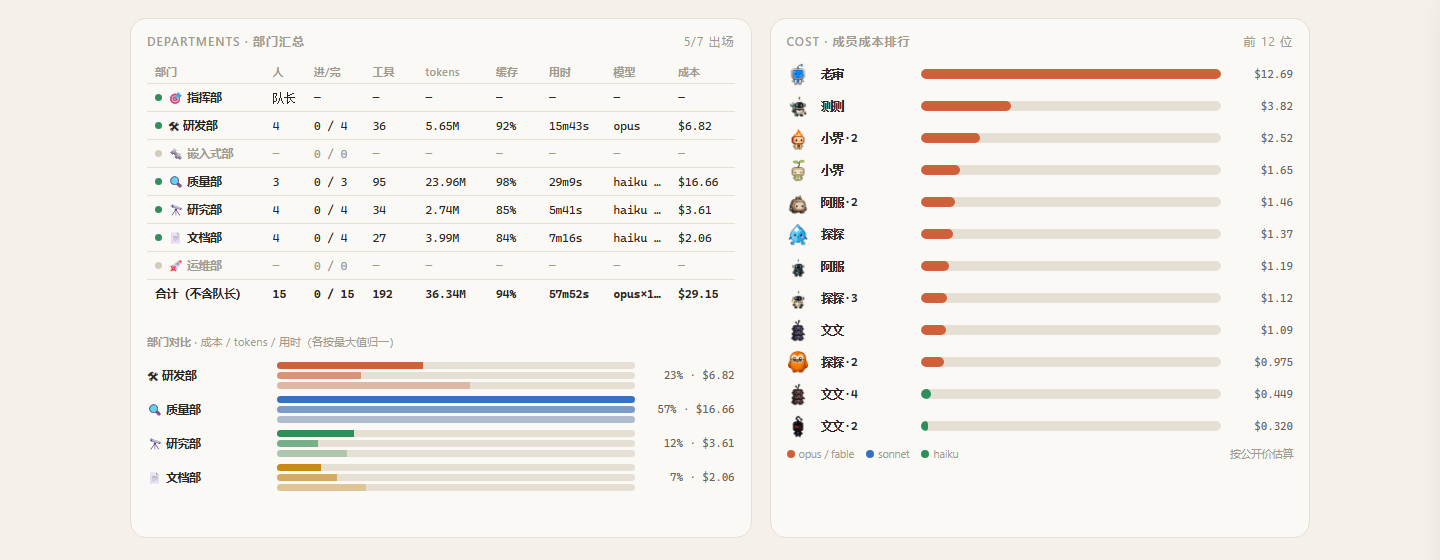
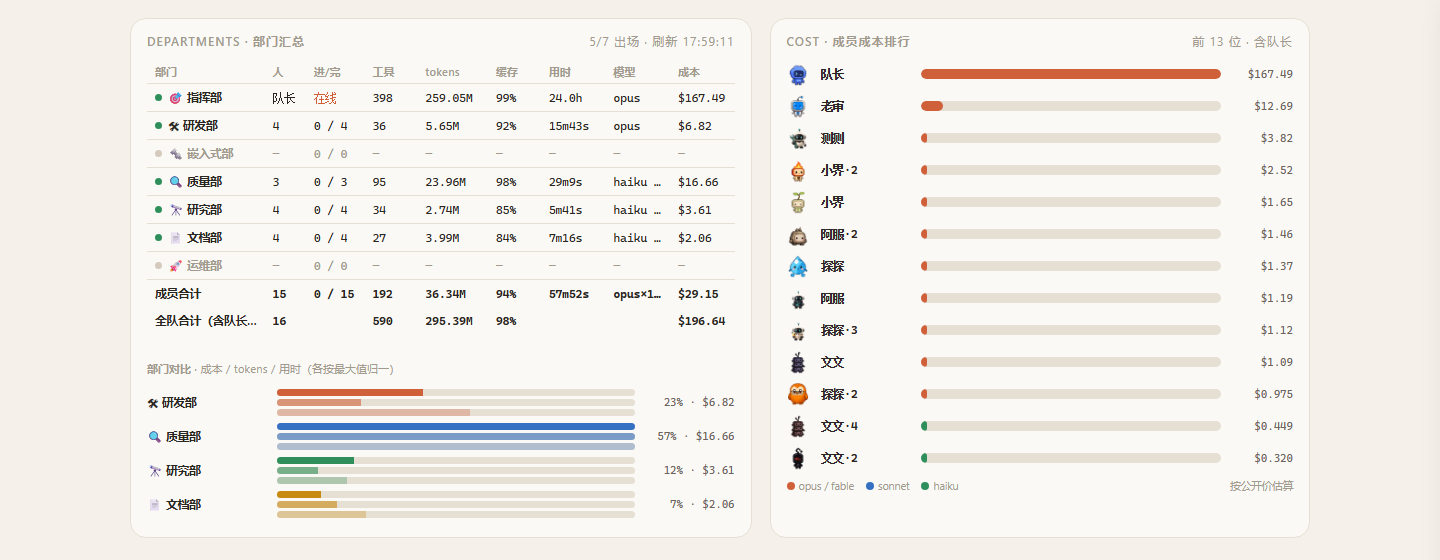
Stats: include the lead (own tools/tokens/cache/duration/cost), all-team totals, refresh clock

diff --git a/team-board/index.html b/team-board/index.html
@@ -762,12 +762,14 @@ function renderRoster(snap) {
 }
 
 function renderStats(snap) {
+  const L = snap.lead || {};
   const deps = snap.departments || [], STC = { running: 'var(--brand)', completed: 'var(--ok)', stalled: 'var(--warn)', idle: 'var(--text-3)', empty: 'var(--line-2)' };
   const fmtS = (n) => !n ? '—' : n < 60 ? `${n}s` : n < 3600 ? `${Math.floor(n / 60)}m${n % 60}s` : `${(n / 3600).toFixed(1)}h`;
-  const rows = deps.map(d => `<tr class="${d.missing ? 'missing' : ''} ${!d.members.length && d.id !== 'hq' ? 'empty' : ''}"><td><span class="st" style="background:${STC[d.status] || STC.empty}"></span>${esc(d.icon || '')} ${esc(d.name)}${d.missing ? ' <span style="font-weight:400">· 必须出场</span>' : ''}</td><td>${d.id === 'hq' ? '队长' + (d.members.length ? ' +' + d.members.length : '') : d.members.length || '—'}</td><td>${d.id === 'hq' ? '—' : `${d.running} / ${d.done}${d.failed ? ` / <span style="color:var(--err)">${d.failed}</span>` : ''}`}</td><td>${d.tools || '—'}</td><td>${d.tokens ? fmtTok(d.tokens) : '—'}</td><td>${d.tokens ? Math.round(d.cacheHit * 100) + '%' : '—'}</td><td>${fmtS(d.seconds)}</td><td>${(d.models || []).join(' ') || '—'}</td><td>${d.cost ? fmtCost(d.cost) : '—'}</td></tr>`).join('');
-  const t = snap.totals || {}, u = t.usage || {};
+  const rows = deps.map(d => `<tr class="${d.missing ? 'missing' : ''} ${!d.members.length && d.id !== 'hq' ? 'empty' : ''}"><td><span class="st" style="background:${STC[d.status] || STC.empty}"></span>${esc(d.icon || '')} ${esc(d.name)}${d.missing ? ' <span style="font-weight:400">· 必须出场</span>' : ''}</td><td>${d.id === 'hq' ? '队长' + (d.members.length ? ' +' + d.members.length : '') : d.members.length || '—'}</td><td>${d.id === 'hq' ? (L.active ? '<span style="color:var(--brand)">在线</span>' : '待命') : `${d.running} / ${d.done}${d.failed ? ` / <span style="color:var(--err)">${d.failed}</span>` : ''}`}</td><td>${d.id === 'hq' ? (L.toolCount ?? 0) + (d.tools || 0) : d.tools || '—'}</td><td>${d.id === 'hq' ? fmtTok((L.totalTokens || 0) + (d.tokens || 0)) : d.tokens ? fmtTok(d.tokens) : '—'}</td><td>${d.id === 'hq' ? Math.round((L.cacheHit || 0) * 100) + '%' : d.tokens ? Math.round(d.cacheHit * 100) + '%' : '—'}</td><td>${d.id === 'hq' ? fmtS(L.startedAt ? Math.round((L.active ? Date.now() / 1000 : (L.endedAt || L.lastActivityAt)) - L.startedAt) : 0) : fmtS(d.seconds)}</td><td>${d.id === 'hq' ? [L.modelFamily, ...(d.models || [])].filter(Boolean).join(' ') : (d.models || []).join(' ') || '—'}</td><td>${d.id === 'hq' ? fmtCost((L.cost || 0) + (d.cost || 0)) : d.cost ? fmtCost(d.cost) : '—'}</td></tr>`).join('');
+  const t = snap.totals || {}, u = t.usage || {}, au = t.allUsage || u;
   $('#dept-table').innerHTML = `<colgroup><col class="c-dept"><col style="width:7%"><col style="width:10%"><col style="width:9%"><col style="width:12%"><col style="width:9%"><col style="width:11%"><col><col style="width:11%"></colgroup><thead><tr><th>部门</th><th>人</th><th>进/完</th><th>工具</th><th>tokens</th><th>缓存</th><th>用时</th><th>模型</th><th>成本</th></tr></thead><tbody>${rows}</tbody>
-    <tfoot><tr><td>合计（不含队长）</td><td>${snap.members.length}</td><td>${snap.lead.running} / ${snap.lead.done}</td><td>${snap.members.reduce((a, m) => a + m.toolCount, 0)}</td><td>${fmtTok(u.total)}</td><td>${u.total ? Math.round(u.cacheHit * 100) + '%' : '—'}</td><td>${fmtS(snap.members.reduce((a, m) => a + (m.startedAt ? Math.round(((m.endedAt || m.lastActivityAt) - m.startedAt)) : 0), 0))}</td><td>${Object.entries(t.modelMix || {}).map(([k, v]) => `${k}×${v}`).join(' ')}</td><td>${fmtCost(t.membersCost) || '—'}</td></tr></tfoot>`;
+    <tfoot><tr><td>成员合计</td><td>${snap.members.length}</td><td>${snap.lead.running} / ${snap.lead.done}</td><td>${snap.members.reduce((a, m) => a + m.toolCount, 0)}</td><td>${fmtTok(u.total)}</td><td>${u.total ? Math.round(u.cacheHit * 100) + '%' : '—'}</td><td>${fmtS(snap.members.reduce((a, m) => a + (m.startedAt ? Math.round(((m.endedAt || m.lastActivityAt) - m.startedAt)) : 0), 0))}</td><td>${Object.entries(t.modelMix || {}).map(([k, v]) => `${k}×${v}`).join(' ')}</td><td>${fmtCost(t.membersCost) || '—'}</td></tr>
+    <tr><td>全队合计（含队长）</td><td>${snap.members.length + 1}</td><td></td><td>${snap.members.reduce((a, m) => a + m.toolCount, 0) + (L.toolCount ?? 0)}</td><td>${fmtTok(au.total)}</td><td>${au.total ? Math.round(au.cacheHit * 100) + '%' : '—'}</td><td></td><td></td><td>${fmtCost(t.cost) || '—'}</td></tr></tfoot>`;
   $('#dept-count').textContent = `${deps.filter(d => d.members.length || d.id === 'hq').length}/${deps.length} 出场`;
   const active = deps.filter(d => d.members.length);
   const totCost = active.reduce((a, d) => a + (d.cost || 0), 0) || 1, totTok = active.reduce((a, d) => a + (d.tokens || 0), 0) || 1, totSec = active.reduce((a, d) => a + (d.seconds || 0), 0) || 1;
@@ -775,9 +777,11 @@ function renderStats(snap) {
   const maxC = Math.max(...active.map(d => d.cost || 0), 0.0001), maxT = Math.max(...active.map(d => d.tokens || 0), 1), maxS = Math.max(...active.map(d => d.seconds || 0), 1);
   const mini = (v, max, color, label) => `<span class="track" title="${label}"><i style="width:${Math.max(2, 100 * v / max)}%;background:${color}"></i></span>`;
   $('#dept-share').innerHTML = active.length ? `<h4>部门对比 <span style="font-weight:400">· 成本 / tokens / 用时（各按最大值归一）</span></h4>` + active.map((d, i) => `<div class="row"><span class="nm">${esc(d.icon || '')} ${esc(d.name)}</span><span style="display:flex;flex-direction:column;gap:3px">${mini(d.cost || 0, maxC, DC[i % DC.length], '成本 ' + fmtCost(d.cost || 0))}${mini(d.tokens || 0, maxT, 'color-mix(in srgb, ' + DC[i % DC.length] + ' 60%, transparent)', 'tokens ' + fmtTok(d.tokens))}${mini(d.seconds || 0, maxS, 'color-mix(in srgb, ' + DC[i % DC.length] + ' 30%, transparent)', '用时 ' + fmtS(d.seconds))}</span><span class="v">${Math.round(100 * (d.cost || 0) / totCost)}% · ${fmtCost(d.cost || 0)}</span></div>`).join('') : '';
-  const ms = snap.members.slice().sort((a, b) => (b.cost || 0) - (a.cost || 0)).slice(0, 12), max = Math.max(...ms.map(m => m.cost || 0), 0.0001);
+  const leadRow = { id: '__lead', name: '队长', agentType: '', avatar: 'team-lead', cost: L.cost || 0, modelFamily: L.modelFamily || '', totalTokens: L.totalTokens || 0, cacheHit: L.cacheHit || 0, description: '主会话（含你与队长的全部对话）' };
+  const ms = [leadRow, ...snap.members].sort((a, b) => (b.cost || 0) - (a.cost || 0)).slice(0, 13), max = Math.max(...ms.map(m => m.cost || 0), 0.0001);
   $('#bars').innerHTML = ms.map(m => `<div class="bar-row" title="${esc(m.description)} · ${fmtTok(m.totalTokens)} tok · 缓存 ${Math.round((m.cacheHit || 0) * 100)}%">${miniPet(m, 22)}<span class="nm">${esc(m.name)}</span><span class="track"><i class="${esc(m.modelFamily || '')}" style="width:${Math.max(2, 100 * (m.cost || 0) / max)}%"></i></span><span class="v">${fmtCost(m.cost) || '$0'}</span></div>`).join('') || '<div style="color:var(--text-3);font-size:12px">还没有成员出场。</div>';
-  $('#bars-count').textContent = ms.length ? `前 ${ms.length} 位` : '';
+  $('#bars-count').textContent = ms.length ? `前 ${ms.length} 位 · 含队长` : '';
+  $('#dept-count').textContent += ` · 刷新 ${fmtClock(Date.now() / 1000)}`;
 }
 
 /* ---------- 部门管理 ---------- */

diff --git a/team-board/team_board.py b/team-board/team_board.py
@@ -506,7 +506,7 @@ def parse_lead(path: Path, now: float):
         data = cached[1]
     else:
         timeline, pending, dispatches, messages, tool_count, out_tokens = [], {}, {}, [], 0, 0
-        last_user_prompt, last_ts = '', None
+        last_user_prompt, last_ts, first_ts = '', None, None
         notifications = {}
         lead_model, lead_usage = '', {'in': 0, 'out': 0, 'cache_read': 0, 'cache_write': 0}
         for e in read_jsonl(path):
@@ -515,6 +515,7 @@ def parse_lead(path: Path, now: float):
             ts = parse_iso(e.get('timestamp'))
             if ts:
                 last_ts = ts
+                first_ts = first_ts or ts
             et = e.get('type')
             if et in ('queue-operation', 'attachment'):
                 raw = json.dumps(e, ensure_ascii=False)
@@ -579,7 +580,7 @@ def parse_lead(path: Path, now: float):
                 'model': lead_model, 'usage': lead_usage, 'cost': round(estimate_cost(lead_model, lead_usage), 4),
                 'dispatches': dispatches, 'messages': messages, 'notifications': notifications,
                 'lastUserPrompt': short(last_user_prompt, 300),
-                'lastTs': last_ts, 'mtime': st.st_mtime}
+                'lastTs': last_ts, 'firstTs': first_ts, 'mtime': st.st_mtime}
         _lead_cache[path] = (key, data)
     current = next((it for it in reversed(data['timeline']) if it['kind'] == 'tool'), None)
     active = now - data['mtime'] < 20
@@ -792,7 +793,12 @@ def build_snapshot(args):
                      'outputTokens': lead_data['outputTokens'], 'timeline': lead_data['timeline'],
                      'lastUserPrompt': lead_data['lastUserPrompt'], 'lastActivityAt': lead_data['mtime'],
                      'model': lead_data.get('model', ''), 'modelFamily': model_family(lead_data.get('model', '')),
-                     'cost': lead_data.get('cost', 0.0), 'usage': lead_data.get('usage', {})})
+                     'cost': lead_data.get('cost', 0.0), 'usage': lead_data.get('usage', {}),
+                     'startedAt': lead_data.get('firstTs'), 'endedAt': lead_data.get('lastTs')})
+        lu = lead.get('usage') or {}
+        lctx = lu.get('in', 0) + lu.get('cache_read', 0) + lu.get('cache_write', 0)
+        lead['totalTokens'] = lctx + lu.get('out', 0)
+        lead['cacheHit'] = round(lu.get('cache_read', 0) / lctx, 4) if lctx else 0.0
 
     # 部门汇总 + 完整性
     coders = [m for m in members if m['dept'] == 'dev' or m['writes']]

diff --git a/docs/GUIDE.md b/docs/GUIDE.md
@@ -29,9 +29,9 @@
 
 ![部门汇总](img/02-stats.png)
 
-**左：部门汇总表**——每个部门的人数、进行/完成/失败、工具调用次数、tokens、缓存命中率、累计用时、用到的模型、估算成本；底部合计。灰色行 = 本次没出场的部门；红色 `必须出场` = 门禁要求但缺席。表下方是部门对比条（成本 / tokens / 用时各按最大值归一）。
+**左：部门汇总表**——每个部门的人数、进行/完成/失败、工具调用次数、tokens、缓存命中率、累计用时、用到的模型、估算成本。第一行**指挥部就是队长本人**（主会话）：在线/待命、它自己的工具调用数、token、缓存命中、会话时长、模型、成本；底部两行合计：成员合计、全队合计（含队长）。标题右侧的「刷新 HH:MM:SS」每 1.5 秒跳动，所有数字都是实时的。灰色行 = 本次没出场的部门；红色 `必须出场` = 门禁要求但缺席。表下方是部门对比条（成本 / tokens / 用时各按最大值归一）。
 
-**右：成员成本排行**——按估算成本排序的前 12 位，条的颜色区分模型档位（橙 opus/fable、蓝 sonnet、绿 haiku）。悬停显示 token 与缓存命中。
+**右：成员成本排行**——队长和成员一起按估算成本排序（队长通常排第一：主会话承载了你与它的全部对话），条的颜色区分模型档位（橙 opus/fable、蓝 sonnet、绿 haiku）。悬停显示 token 与缓存命中。
 
 > 成本按 `team-board/team.json` 里的公开单价估算（输入 / 输出 / 缓存读 / 缓存写分开计），不是账单。改单价：编辑 `pricing_usd_per_mtok`，页面即时生效。
 
